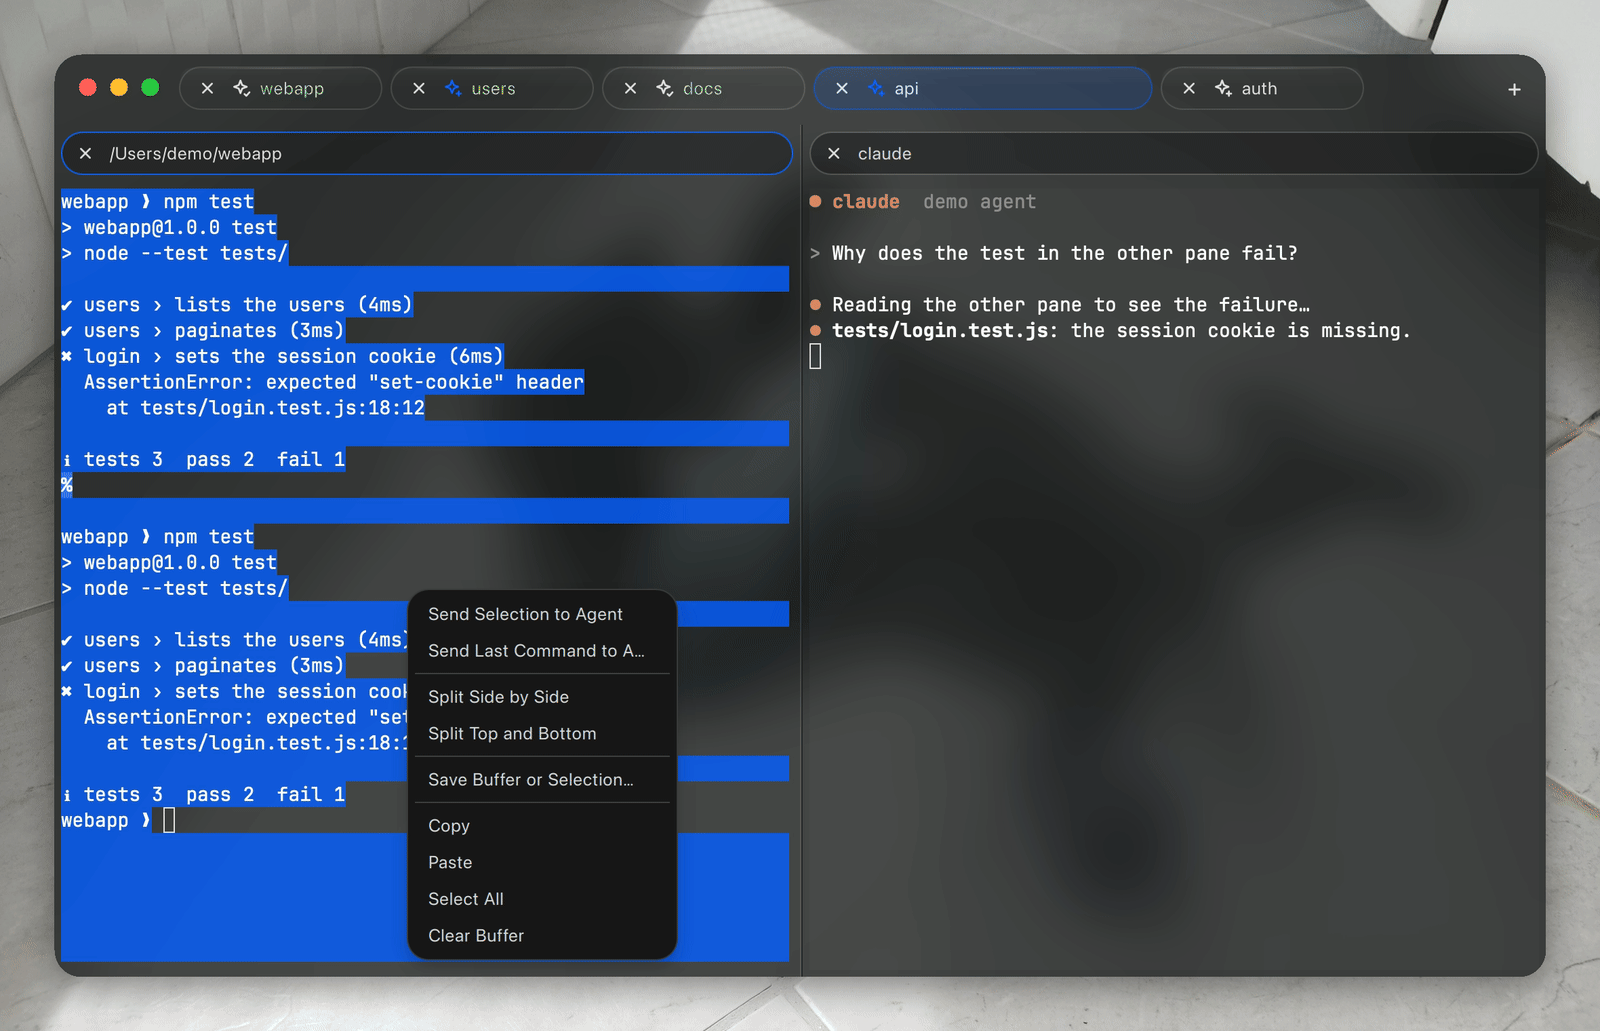
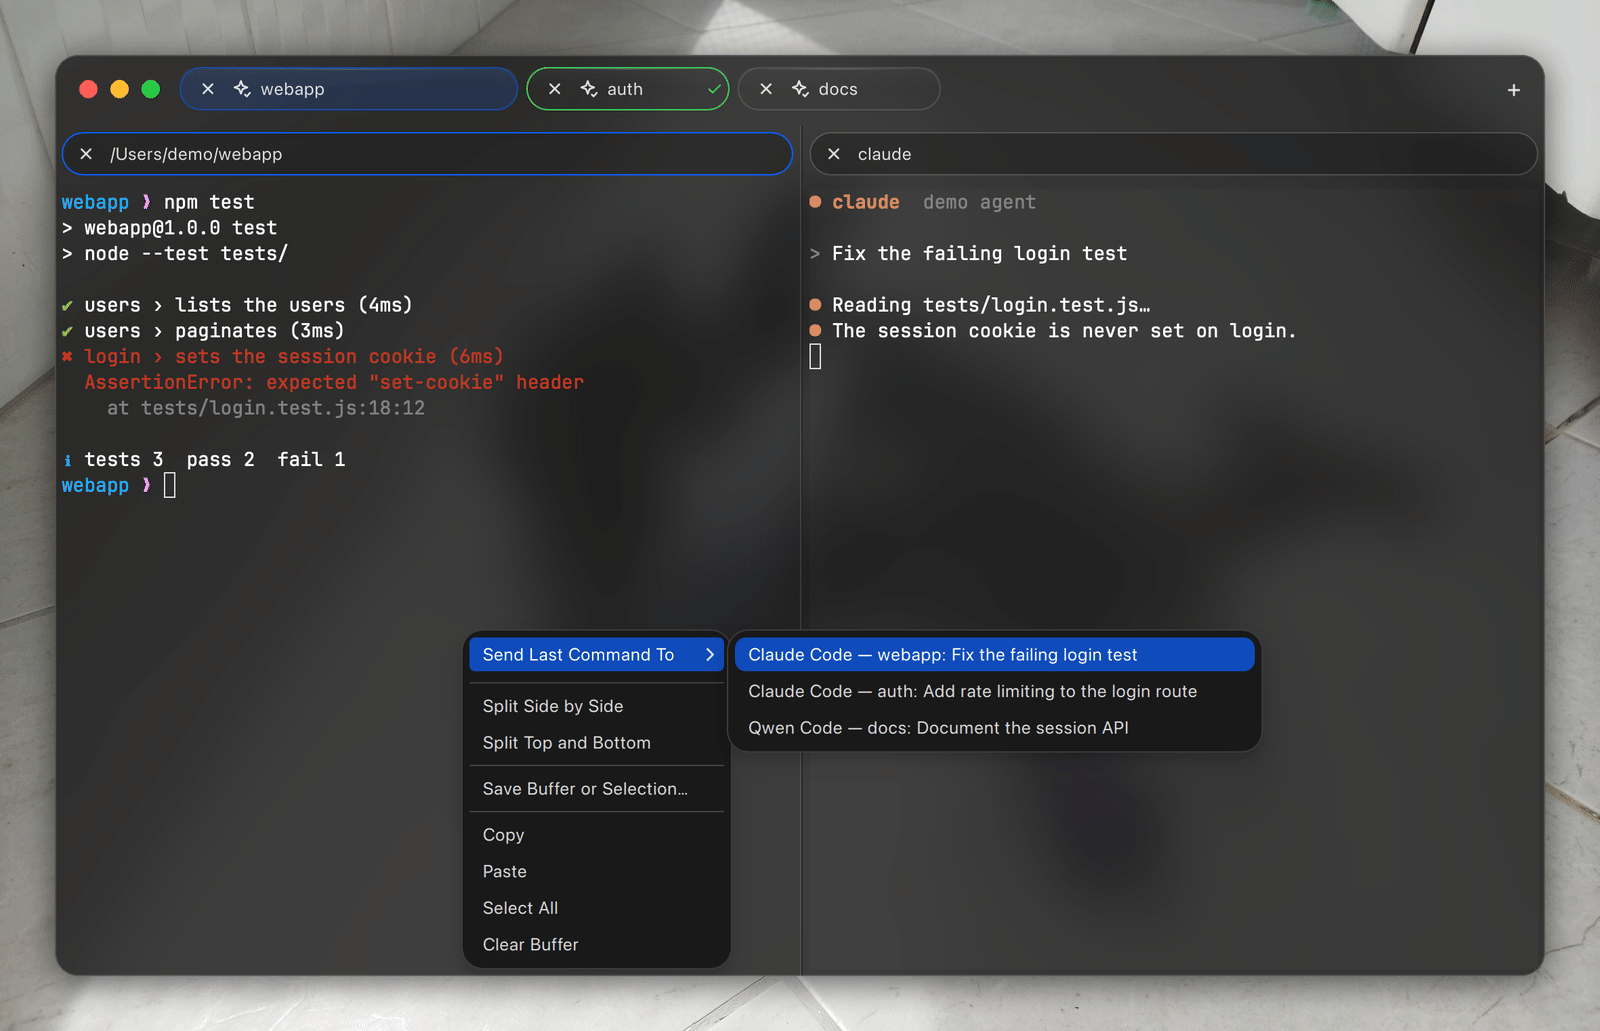
Let Send to Agent choose among the open agents
With more than one agent pane, Send Selection To and Send Last Command To
become submenus listing each agent by name, tab and task (the same tab's
first), sized to fit them. The README image shows it; notes for
v3.6.0-beta.4.

diff --git a/TerminalView.qml b/TerminalView.qml
@@ -563,37 +563,100 @@ Item {
         }
     }
 
+    // Measures the agent labels, so the Send submenus fit them (a menu is
+    // otherwise 200 px wide and elides them).
+    TextMetrics {
+        id: agentLabelMetrics
+        font: contextMenu.font
+    }
+
     Controls.Menu {
         id: contextMenu
 
-        // Read as the menu opens: the agent pane text would go to (same tab
-        // first), and what there is to send.
-        property var agentTarget: null
+        // Read as the menu opens: the agent panes text can go to (same tab
+        // first), and what there is to send. With several agents, the items
+        // become submenus listing them.
+        property var agentTargets: []
         property string selectedText: ""
         property string lastCommand: ""
+        readonly property bool oneAgent: agentTargets.length === 1
+        property real agentMenuWidth: 0
+        property Controls.Menu selectionMenu: Controls.Menu {
+            title: qsTr("Send Selection To")
+            width: Math.max(implicitWidth, contextMenu.agentMenuWidth)
+
+            Instantiator {
+                model: contextMenu.agentTargets
+                delegate: Controls.MenuItem {
+                    required property var modelData
+                    text: modelData.label
+                    onTriggered: view.sessionManager.sendToAgent(modelData.session, contextMenu.selectedText)
+                }
+                onObjectAdded: (index, object) => contextMenu.selectionMenu.insertItem(index, object)
+                onObjectRemoved: (index, object) => contextMenu.selectionMenu.removeItem(object)
+            }
+        }
+        property Controls.Menu commandMenu: Controls.Menu {
+            title: qsTr("Send Last Command To")
+            width: Math.max(implicitWidth, contextMenu.agentMenuWidth)
+
+            Instantiator {
+                model: contextMenu.agentTargets
+                delegate: Controls.MenuItem {
+                    required property var modelData
+                    text: modelData.label
+                    onTriggered: view.sessionManager.sendToAgent(modelData.session, contextMenu.lastCommand)
+                }
+                onObjectAdded: (index, object) => contextMenu.commandMenu.insertItem(index, object)
+                onObjectRemoved: (index, object) => contextMenu.commandMenu.removeItem(object)
+            }
+        }
+
+        // Takes `menu` out of the context menu (kept, not destroyed).
+        function takeSubmenu(menu) {
+            for (let i = 0; i < count; ++i) {
+                if (menuAt(i) === menu) {
+                    takeMenu(i);
+                    return;
+                }
+            }
+        }
 
         onAboutToShow: {
-            agentTarget = view.session ? view.sessionManager.agentSessionFor(view.session) : null;
-            selectedText = agentTarget ? view.session.selectionText() : "";
-            lastCommand = agentTarget ? view.session.lastCommandText() : "";
+            agentTargets = view.session ? view.sessionManager.agentSessionsFor(view.session) : [];
+            const any = agentTargets.length > 0;
+            selectedText = any ? view.session.selectionText() : "";
+            lastCommand = any ? view.session.lastCommandText() : "";
+            agentMenuWidth = agentTargets.reduce((widest, target) => {
+                agentLabelMetrics.text = target.label;
+                return Math.max(widest, agentLabelMetrics.advanceWidth + 64);
+            }, 0);
+            takeSubmenu(selectionMenu);
+            takeSubmenu(commandMenu);
+            if (agentTargets.length > 1) {
+                if (lastCommand !== "")
+                    insertMenu(0, commandMenu);
+                if (selectedText !== "")
+                    insertMenu(0, selectionMenu);
+            }
         }
 
         Controls.MenuItem {
-            visible: contextMenu.agentTarget !== null && contextMenu.selectedText !== ""
+            visible: contextMenu.oneAgent && contextMenu.selectedText !== ""
             height: visible ? implicitHeight : 0
             text: qsTr("Send Selection to Agent")
-            onTriggered: view.sessionManager.sendToAgent(view.session, contextMenu.selectedText)
+            onTriggered: view.sessionManager.sendToAgent(contextMenu.agentTargets[0].session, contextMenu.selectedText)
         }
 
         Controls.MenuItem {
-            visible: contextMenu.agentTarget !== null && contextMenu.lastCommand !== ""
+            visible: contextMenu.oneAgent && contextMenu.lastCommand !== ""
             height: visible ? implicitHeight : 0
             text: qsTr("Send Last Command to Agent")
-            onTriggered: view.sessionManager.sendToAgent(view.session, contextMenu.lastCommand)
+            onTriggered: view.sessionManager.sendToAgent(contextMenu.agentTargets[0].session, contextMenu.lastCommand)
         }
 
         MenuSeparator {
-            visible: contextMenu.agentTarget !== null && (contextMenu.selectedText !== "" || contextMenu.lastCommand !== "")
+            visible: contextMenu.agentTargets.length > 0 && (contextMenu.selectedText !== "" || contextMenu.lastCommand !== "")
             height: visible ? implicitHeight : 0
         }
 

diff --git a/src/TerminalManager.cpp b/src/TerminalManager.cpp
@@ -34,6 +34,27 @@ QString agentDisplayName(const QString &agent)
     return names.value(agent, agent.isEmpty() ? QObject::tr("The AI agent") : agent);
 }
 
+// A pane Send to Agent can paste into: an agent reports there, or its
+// foreground process is a known agent that does not.
+bool isAgentSession(const TerminalBackend *session)
+{
+    return session->agentStateValue() != AgentState::None || session->processKind() == QLatin1String("agent");
+}
+
+// How Send to Agent names an agent pane: "Claude Code — konsoll: fix the
+// build" (the task elided).
+QString agentTargetLabel(const TerminalBackend *session, const TerminalWorkspaceModel *workspace)
+{
+    const QString agent = session->agentName().isEmpty() ? session->foregroundProcess() : session->agentName();
+    QString label = agentDisplayName(agent) + QStringLiteral(" — ") + workspace->title();
+    const QString task = session->agentTask().simplified();
+    constexpr qsizetype kTaskLength = 40;
+    if (!task.isEmpty()) {
+        label += QStringLiteral(": ") + (task.size() > kTaskLength ? task.left(kTaskLength - 1) + QChar(0x2026) : task);
+    }
+    return label;
+}
+
 // How much a pane's agent state wants the user, for the workspace's icon.
 int agentUrgency(AgentState state)
 {
@@ -506,32 +527,46 @@ void TerminalManager::onAgentStatusChanged(TerminalBackend *session, AgentState 
     );
 }
 
-QObject *TerminalManager::agentSessionFor(QObject *session) const
+QVariantList TerminalManager::agentSessionsFor(QObject *session) const
 {
     TerminalBackend *const from = ownedSession(session);
-    const auto isAgent = [from](const TerminalBackend *candidate) {
-        return candidate != from &&
-               (candidate->agentStateValue() != AgentState::None || candidate->processKind() == QLatin1String("agent"));
+    TerminalWorkspaceModel *const current = from != nullptr ? workspaceOf(from) : nullptr;
+    struct Target {
+        QString label;
+        TerminalBackend *session = nullptr;
+        qsizetype tab = 0;
     };
-    if (TerminalWorkspaceModel *const workspace = from != nullptr ? workspaceOf(from) : nullptr) {
-        const QVariantList sameTab = workspaceSessions(workspace);
-        const auto found = std::ranges::find_if(sameTab, [&isAgent](const QVariant &value) {
-            const auto *const candidate = qobject_cast<const TerminalBackend *>(value.value<QObject *>());
-            return candidate != nullptr && isAgent(candidate);
-        });
-        if (found != sameTab.end()) {
-            return found->value<QObject *>();
+    std::vector<Target> targets;
+    for (qsizetype tab = 0; tab < std::ssize(m_workspaces); ++tab) {
+        TerminalWorkspaceModel *const workspace = m_workspaces[tab].get();
+        for (const QVariant &value : workspaceSessions(workspace)) {
+            auto *const candidate = qobject_cast<TerminalBackend *>(value.value<QObject *>());
+            if (candidate != nullptr && candidate != from && isAgentSession(candidate)) {
+                targets.push_back({agentTargetLabel(candidate, workspace), candidate, tab + 1});
+            }
         }
     }
-    const auto anywhere =
-        std::ranges::find_if(m_sessions, [&isAgent](const auto &candidate) { return isAgent(candidate.get()); });
-    return anywhere != m_sessions.end() ? anywhere->get() : nullptr;
+    // The same tab's agents first; the order is otherwise the tabs'.
+    std::ranges::stable_partition(targets, [this, current](const Target &target) {
+        return workspaceOf(target.session) == current;
+    });
+    QVariantList list;
+    std::ranges::transform(targets, std::back_inserter(list), [&targets](const Target &target) {
+        // Two tabs with the same name and agent: tell them apart by number.
+        const auto same = std::ranges::count(targets, target.label, &Target::label);
+        const QString label = same > 1 ? QObject::tr("%1 (tab %2)").arg(target.label).arg(target.tab) : target.label;
+        return QVariant(QVariantMap{
+            {QStringLiteral("session"), QVariant::fromValue(static_cast<QObject *>(target.session))},
+            {QStringLiteral("label"), label},
+        });
+    });
+    return list;
 }
 
-bool TerminalManager::sendToAgent(QObject *session, const QString &text)
+bool TerminalManager::sendToAgent(QObject *agentObject, const QString &text)
 {
-    auto *const agent = qobject_cast<TerminalBackend *>(agentSessionFor(session));
-    if (agent == nullptr || text.trimmed().isEmpty()) {
+    TerminalBackend *const agent = ownedSession(agentObject);
+    if (agent == nullptr || !isAgentSession(agent) || text.trimmed().isEmpty()) {
         return false;
     }
     agent->pasteText(text);

diff --git a/src/selftest.cpp b/src/selftest.cpp
@@ -524,20 +524,25 @@ void checkAgentContextTools(
     // Send to Agent: text from another pane is pasted into the agent's pane
     // (same tab first), which becomes active. A plain shell is no agent.
     agent->setAgentStatus(konsoll::AgentState::None, {}, {}); // left working by read_pane's answer
-    const bool notYetAgent = manager.agentSessionFor(pane) != agent;
+    const bool notYetAgent =
+        manager.agentSessionsFor(pane).isEmpty() && !manager.sendToAgent(agent, QStringLiteral("x"));
     agent->setAgentStatus(konsoll::AgentState::Working, QStringLiteral("claude"), {});
+    const QVariantList targets = manager.agentSessionsFor(pane);
+    const QVariantMap target = targets.value(0).toMap();
+    const bool listed = targets.size() == 1 && target.value(QStringLiteral("session")).value<QObject *>() == agent &&
+                        target.value(QStringLiteral("label")).toString().startsWith(QStringLiteral("Claude Code — "));
     manager.activateSession(pane);
-    const bool sent = manager.sendToAgent(pane, QStringLiteral("echo SENT_\x1bTO_AGENT"));
+    const bool sent = manager.sendToAgent(agent, QStringLiteral("echo SENT_\x1bTO_AGENT"));
     agent->writeText("\r");
     check(
         failures,
-        notYetAgent && sent && manager.agentSessionFor(pane) == agent && activeSession(manager) == agent &&
+        notYetAgent && listed && sent && activeSession(manager) == agent &&
             waitFor(
                 "agent tools: sent text runs",
                 [agent]() { return agent->bufferText().count(QStringLiteral("SENT_TO_AGENT")) >= 2; },
                 10000
             ),
-        "agent tools: Send to Agent pastes into the agent's pane (escapes dropped) and activates it"
+        "agent tools: Send to Agent lists the agent panes and pastes into the chosen one (escapes dropped)"
     );
     agent->setAgentStatus(konsoll::AgentState::None, {}, {});
 }

diff --git a/src/TerminalManager.h b/src/TerminalManager.h
@@ -236,12 +236,13 @@ public:
     // end of the tabs, named `title` when not empty, and activates it.
     void adoptSession(std::unique_ptr<TerminalBackend> session, const QString &title);
     Q_INVOKABLE void activateSession(QObject *session);
-    // The pane running an AI agent that text from `session` would go to: one
-    // in the same tab first, then any in the window; null when none runs.
-    Q_INVOKABLE QObject *agentSessionFor(QObject *session) const;
-    // Pastes `text` into that agent's pane (as its next prompt, not sent)
-    // and makes it the active pane. False when no agent runs.
-    Q_INVOKABLE bool sendToAgent(QObject *session, const QString &text);
+    // The panes running an AI agent that text from `session` can go to, as
+    // {session, label} maps: the same tab's first, then the other tabs in
+    // order. The label names the agent, its tab and its task.
+    Q_INVOKABLE QVariantList agentSessionsFor(QObject *session) const;
+    // Pastes `text` into the agent pane `agent` (as its next prompt, not
+    // sent) and makes it the active pane. False when it is not an agent here.
+    Q_INVOKABLE bool sendToAgent(QObject *agent, const QString &text);
     Q_INVOKABLE void setActiveWorkspace(int index);
     Q_INVOKABLE void splitActive(int orientation);
     Q_INVOKABLE void navigateActivationHistory(int direction);

diff --git a/docs/SCREENSHOTS.md b/docs/SCREENSHOTS.md
@@ -157,7 +157,7 @@ above): relaunch your Konsoll afterwards so it writes your functions back.
 | `agents-window.png` | Window ▸ AI Agents with those four agents: Allow / Deny on the two asking, the task and state of the others | — |
 | `agent-connect.png` | A tab running a Codex that reports nothing, with the offer to connect it | `~/.codex` exists, not connected |
 | `agent-read-request.png` | Tab `api`: a failed `npm test` beside an agent whose `read_pane` waits for Deny / Allow Once | The demo agent calls `konsoll --mcp` itself |
-| `send-to-agent.png` | The failed `npm test` selected and the pane menu with Send Selection / Send Last Command to Agent | Select All, then the context menu |
+| `send-to-agent.png` | Tab `webapp`: the failed `npm test` beside an agent, two more agents in tabs `auth` and `docs`, and the pane menu's Send Last Command To submenu listing the three | The context menu, then the submenu |
 | `settings-agents.png` | Settings ▸ AI Agents: Claude Code and Qwen Code connected, Codex not, opencode not found, the MCP rows | — |
 
 **The AI agent shots** use demo agents in the docshot home: a small binary

diff --git a/README.md b/README.md
@@ -411,11 +411,12 @@ connected, it also reports what it is doing, and the tab shows it:
 
 - **Send to Agent.** Right-click a pane: **Send Selection to Agent** and
   **Send Last Command to Agent** (the command, its exit status and output)
-  paste into the agent's pane — the one in the same tab first — as its next
-  prompt, ready for you to add a question and send.
+  paste into the agent's pane as its next prompt, ready for you to add a
+  question and send. With several agents open, they become submenus listing
+  each one by agent, tab and task (the same tab's first).
 
 <p align="center">
-  <img src="docs/images/send-to-agent.png" alt="A failed npm test selected, and the pane menu offering Send Selection to Agent and Send Last Command to Agent" width="900">
+  <img src="docs/images/send-to-agent.png" alt="A failed npm test, and the pane menu's Send Last Command To submenu listing three agents by tab and task" width="900">
 </p>
 
 - **Agents in parallel.** **Shell ▸ New Agent in Worktree…** asks for an

diff --git a/AGENTS.md b/AGENTS.md
@@ -71,8 +71,8 @@ Guidance for AI agents working in this repository.
   Changing the hook specs makes installed hooks outdated (`agentHooksCurrent`):
   Settings offers Update.
   Send to Agent (the pane's context menu) pastes the selection or the last
-  command block (`lastCommandText`) into `TerminalManager::agentSessionFor`
-  (an agent pane in the same tab first) with `pasteText`.
+  command block (`lastCommandText`) into an agent from `TerminalManager::agentSessionsFor`
+  (the same tab's first; several become a submenu) with `pasteText`.
   New Agent in Worktree (Shell menu) asks with
   `NativeDialogs::promptAgentWorktree`; `AgentIntegrations::worktreePlan`
   builds the command (`git worktree add` beside the repository, then the

diff --git a/docs/releases/v3.6.0-beta.4.md b/docs/releases/v3.6.0-beta.4.md
@@ -1,0 +1,16 @@
+## What's new (beta)
+
+The fourth beta of AI coding agents in Konsoll. The stable release is still
+3.5.0.
+
+### Send to Agent picks the agent
+
+- With more than one agent open, **Send Selection To** and **Send Last
+  Command To** are submenus listing each agent by name, tab and task — the
+  ones in the same tab first — instead of always sending to the first one.
+  With a single agent the menu is unchanged.
+
+Everything from the earlier betas is still here: Allow / Deny on permission
+prompts from the notification or Window ▸ AI Agents, the agent's task and
+waiting time, the Dock badge, the context tools of `konsoll --mcp`, and New
+Agent in Worktree.
